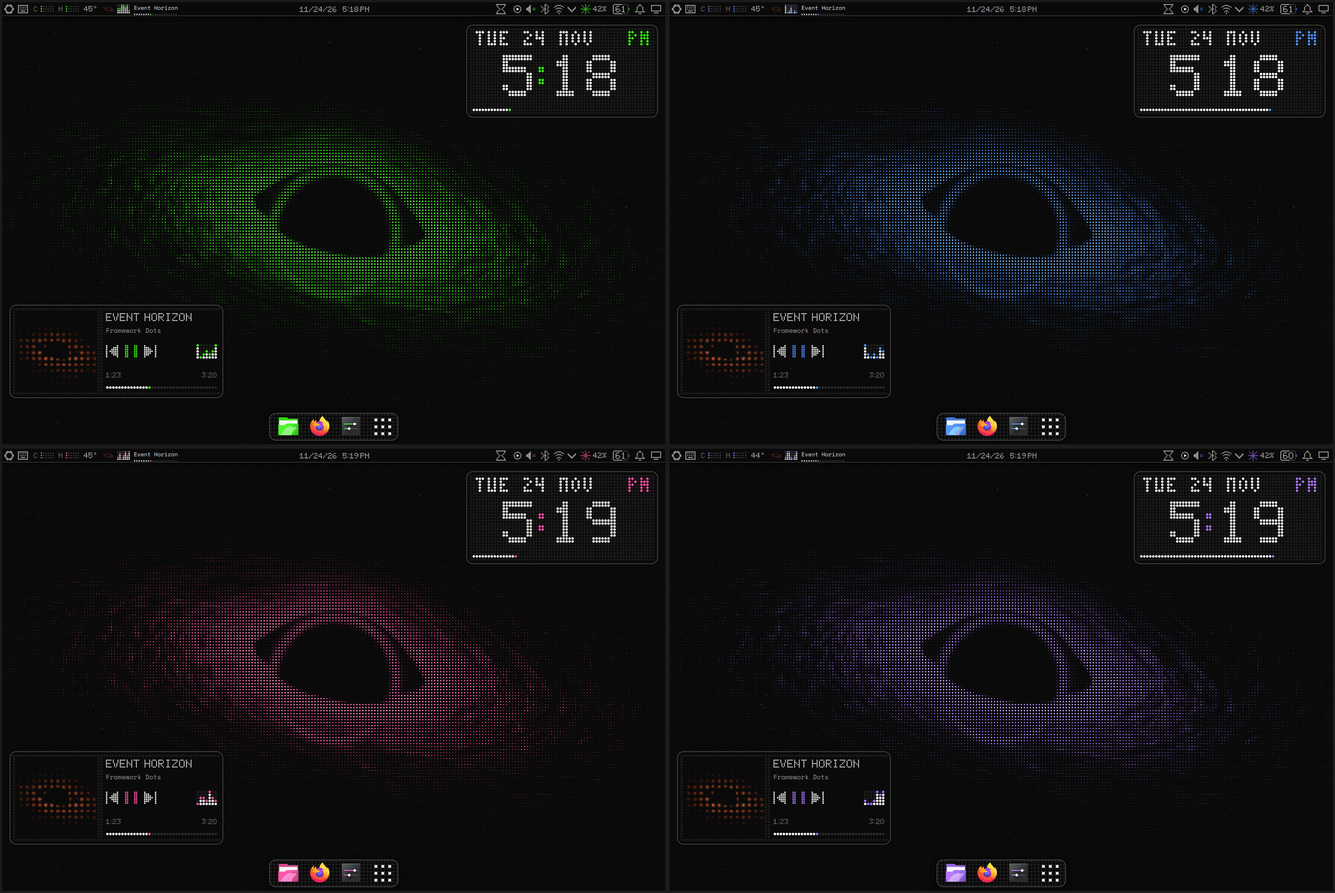
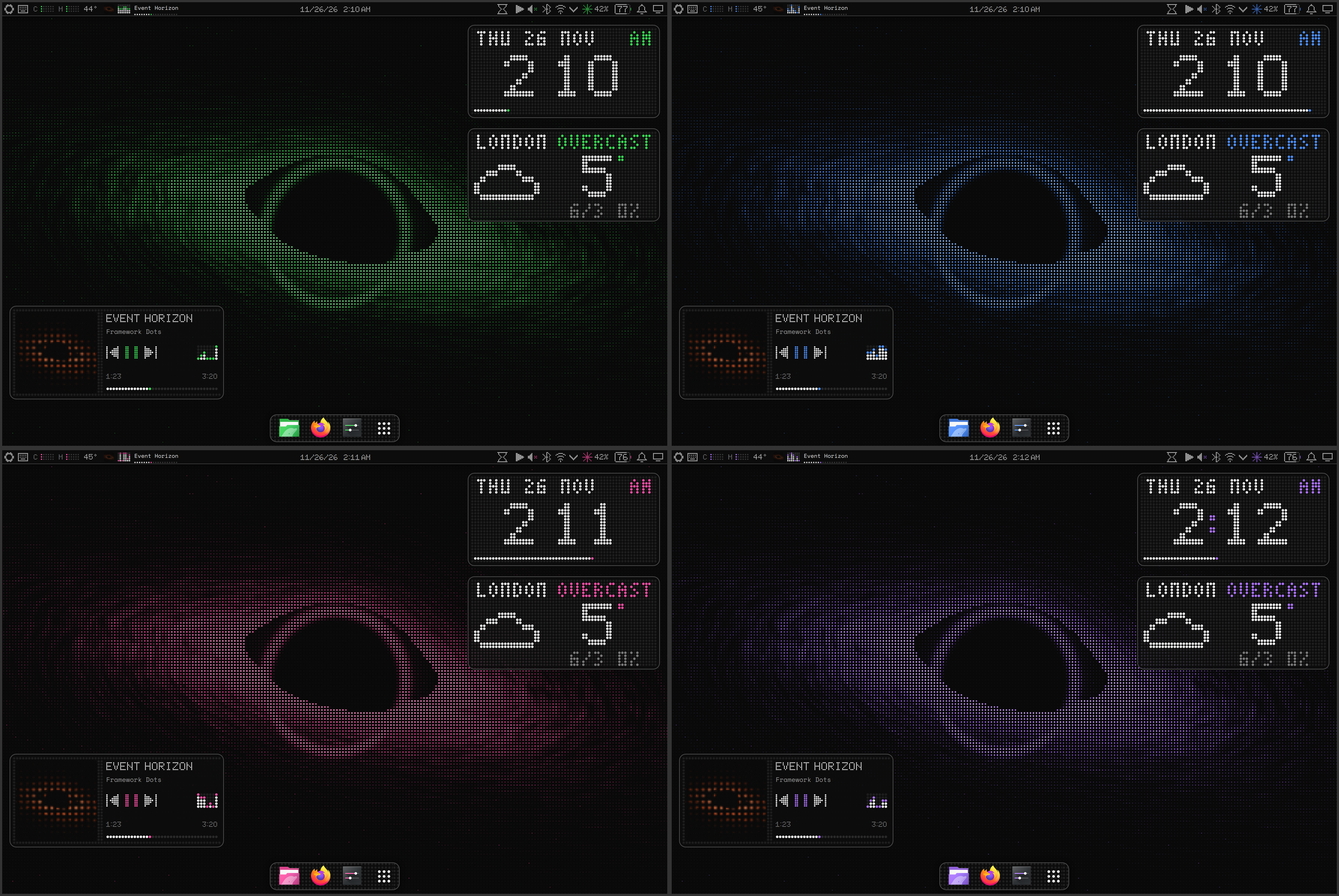
Accent changes without restarting the taskbar, new README pictures

diff --git a/plasmoids/local.dotlauncher/contents/ui/Dash.qml b/plasmoids/local.dotlauncher/contents/ui/Dash.qml
@@ -83,12 +83,12 @@ Kicker.DashboardWindow {
                     anchors.fill: parent
                     horizontalAlignment: TextInput.AlignHCenter; verticalAlignment: TextInput.AlignVCenter
                     font.family: "FD Dots"; font.capitalization: Font.AllUppercase; font.pointSize: 30
-                    color: page.ink; selectionColor: "#f3531a"; selectedTextColor: "#141414"
+                    color: page.ink; selectionColor: Kirigami.Theme.highlightColor; selectedTextColor: "#141414"
                     clip: true; maximumLength: 80
                     Accessible.role: Accessible.EditableText; Accessible.name: "Search apps"
                     cursorDelegate: Item {
                         Column { anchors.verticalCenter: parent.verticalCenter; x: 2; spacing: 2; visible: dash.searching
-                            Repeater { model: 5; Rectangle { width: 5; height: 5; radius: 2.5; color: "#f3531a" } }
+                            Repeater { model: 5; Rectangle { width: 5; height: 5; radius: 2.5; color: Kirigami.Theme.highlightColor } }
                             SequentialAnimation on opacity { loops: Animation.Infinite; running: dash.visible && dash.searching; PauseAnimation { duration: 500 } NumberAnimation { to: 0; duration: 60 } PauseAnimation { duration: 400 } NumberAnimation { to: 1; duration: 60 } } }
                     }
                     onTextChanged: dash.runnerModel.query = text
@@ -109,7 +109,7 @@ Kicker.DashboardWindow {
                     }
                 }
                 Row { anchors { bottom: parent.bottom; horizontalCenter: parent.horizontalCenter } spacing: 6
-                    Repeater { model: Math.floor(search.width / 10); Rectangle { required property int index; width: 4; height: 4; radius: 2; color: dash.searching ? "#f3531a" : page.ink; opacity: dash.searching ? 1 : 0.22 } } }
+                    Repeater { model: Math.floor(search.width / 10); Rectangle { required property int index; width: 4; height: 4; radius: 2; color: dash.searching ? Kirigami.Theme.highlightColor : page.ink; opacity: dash.searching ? 1 : 0.22 } } }
             }
 
             // Categories
@@ -127,7 +127,7 @@ Kicker.DashboardWindow {
                     required property int index
                     readonly property bool on: index === dash.group && !dash.searching
                     width: name.implicitWidth + 26; height: 34; radius: 17
-                    color: on ? "#f3531a" : Qt.rgba(page.ink.r, page.ink.g, page.ink.b, over.containsMouse ? 0.14 : 0.06)
+                    color: on ? Kirigami.Theme.highlightColor : Qt.rgba(page.ink.r, page.ink.g, page.ink.b, over.containsMouse ? 0.14 : 0.06)
                     border.width: 1; border.color: Qt.rgba(page.ink.r, page.ink.g, page.ink.b, on ? 0 : 0.18)
                     Accessible.role: Accessible.PageTab; Accessible.name: modelData.name; Accessible.onPressAction: dash.pick(index)
                     PC.Label { id: name; anchors.centerIn: parent; text: pill.modelData.name; textFormat: Text.PlainText; color: pill.on ? "#141414" : page.ink }
@@ -166,7 +166,7 @@ Kicker.DashboardWindow {
                     }
                     Kirigami.Icon { id: ic; anchors { top: parent.top; topMargin: 18; horizontalCenter: parent.horizontalCenter } width: 56; height: 56; source: app.model.decoration; animated: false; scale: hover.pressed ? 0.92 : 1 }
                     PC.Label { anchors { top: ic.bottom; topMargin: 8; left: parent.left; right: parent.right; margins: 12 } text: app.model.display || ""; textFormat: Text.PlainText; horizontalAlignment: Text.AlignHCenter; wrapMode: Text.Wrap; maximumLineCount: 2; elide: Text.ElideRight; font: Kirigami.Theme.smallFont; color: page.ink }
-                    Rectangle { anchors { bottom: parent.bottom; bottomMargin: 9; horizontalCenter: parent.horizontalCenter } width: 6; height: 6; radius: 3; color: "#f3531a"; visible: app.on }
+                    Rectangle { anchors { bottom: parent.bottom; bottomMargin: 9; horizontalCenter: parent.horizontalCenter } width: 6; height: 6; radius: 3; color: Kirigami.Theme.highlightColor; visible: app.on }
                     MouseArea {
                         id: hover
                         anchors.fill: parent
@@ -183,7 +183,7 @@ Kicker.DashboardWindow {
                 readonly property int at: grid.atYEnd ? pages - 1 : Math.min(pages - 1, Math.floor((grid.contentY - grid.originY) / Math.max(1, grid.height) + 0.25))
                 id: where
                 visible: pages > 1; spacing: 9
-                Repeater { model: where.pages; Rectangle { required property int index; width: 8; height: 8; radius: 4; color: index === where.at ? "#f3531a" : page.ink; opacity: index === where.at ? 1 : 0.25
+                Repeater { model: where.pages; Rectangle { required property int index; width: 8; height: 8; radius: 4; color: index === where.at ? Kirigami.Theme.highlightColor : page.ink; opacity: index === where.at ? 1 : 0.25
                     MouseArea { anchors.fill: parent; anchors.margins: -4; cursorShape: Qt.PointingHandCursor; onClicked: grid.contentY = grid.originY + Math.min(index * grid.height, Math.max(0, grid.contentHeight - grid.height)) } } }
             }
             Column {
@@ -208,9 +208,9 @@ Kicker.DashboardWindow {
                         required property int index
                         width: 46; height: 46; radius: 23
                         color: Qt.rgba(page.ink.r, page.ink.g, page.ink.b, am.containsMouse ? 0.14 : 0.06)
-                        border.width: 1; border.color: am.containsMouse ? "#f3531a" : Qt.rgba(page.ink.r, page.ink.g, page.ink.b, 0.18)
+                        border.width: 1; border.color: am.containsMouse ? Kirigami.Theme.highlightColor : Qt.rgba(page.ink.r, page.ink.g, page.ink.b, 0.18)
                         Accessible.role: Accessible.Button; Accessible.name: model.display || ""; Accessible.onPressAction: { dash.systemModel.trigger(index, "", null); dash.done() }
-                        Kirigami.Icon { anchors.centerIn: parent; width: 22; height: 22; source: act.model.decoration; isMask: true; color: am.containsMouse ? "#f3531a" : page.ink }
+                        Kirigami.Icon { anchors.centerIn: parent; width: 22; height: 22; source: act.model.decoration; isMask: true; color: am.containsMouse ? Kirigami.Theme.highlightColor : page.ink }
                         PC.Label { anchors { bottom: parent.top; bottomMargin: 5; horizontalCenter: parent.horizontalCenter } visible: am.containsMouse; text: act.model.display || ""; textFormat: Text.PlainText; font: Kirigami.Theme.smallFont; color: page.ink }
                         MouseArea { id: am; anchors.fill: parent; hoverEnabled: true; cursorShape: Qt.PointingHandCursor; onClicked: { dash.systemModel.trigger(act.index, "", null); dash.done() } }
                     }

diff --git a/plasmoids/local.dotplaying/contents/ui/main.qml b/plasmoids/local.dotplaying/contents/ui/main.qml
@@ -95,7 +95,7 @@ PlasmoidItem {
                         required property int index
                         readonly property bool on: index >= 5 - (root.playing ? root.levels[c.index] : 1)
                         y: index * pitch; width: pitch * 0.8; height: width; radius: width / 2
-                        color: on && root.playing && index === 5 - root.levels[c.index] ? "#f3531a" : Kirigami.Theme.textColor
+                        color: on && root.playing && index === 5 - root.levels[c.index] ? Kirigami.Theme.highlightColor : Kirigami.Theme.textColor
                         opacity: on ? 1 : 0.18
                     }
                 }
@@ -162,7 +162,7 @@ PlasmoidItem {
                         Item {
                             required property int index
                             width: 5; height: 3
-                            Rectangle { width: 3; height: 3; radius: 1.5; color: index === line.lit - 1 ? "#f3531a" : Kirigami.Theme.textColor; opacity: index < line.lit ? 0.9 : 0.18 }
+                            Rectangle { width: 3; height: 3; radius: 1.5; color: index === line.lit - 1 ? Kirigami.Theme.highlightColor : Kirigami.Theme.textColor; opacity: index < line.lit ? 0.9 : 0.18 }
                         }
                     }
                 }
@@ -188,7 +188,7 @@ PlasmoidItem {
                 visible: gl.n > 0 && gl.rows9[Math.floor(index / gl.n)][index % gl.n] === "#"
                 x: 7 + (index % gl.n) * gl.pitch; y: 7 + Math.floor(index / gl.n) * gl.pitch
                 width: gl.pitch * 0.84; height: width; radius: width / 2
-                color: gl.containsMouse ? "#f3531a" : gl.tint
+                color: gl.containsMouse ? Kirigami.Theme.highlightColor : gl.tint
             }
         }
     }
@@ -205,7 +205,7 @@ PlasmoidItem {
             Rectangle {
                 required property int index
                 x: index * 8 + 1; y: 4; width: 6; height: 6; radius: 3
-                color: index === dts.lit - 1 ? "#f3531a" : Kirigami.Theme.textColor
+                color: index === dts.lit - 1 ? Kirigami.Theme.highlightColor : Kirigami.Theme.textColor
                 opacity: index < dts.lit ? 1 : 0.18
             }
         }
@@ -314,15 +314,15 @@ PlasmoidItem {
             Row {
                 Layout.alignment: Qt.AlignHCenter
                 spacing: 2
-                Glyph { anchors.verticalCenter: parent.verticalCenter; visible: root.shuffle !== 0; pitch: 2; tint: root.shuffle === 2 ? "#f3531a" : Kirigami.Theme.textColor; onClicked: root.player.shuffle = root.shuffle === 2 ? 1 : 2
+                Glyph { anchors.verticalCenter: parent.verticalCenter; visible: root.shuffle !== 0; pitch: 2; tint: root.shuffle === 2 ? Kirigami.Theme.highlightColor : Kirigami.Theme.textColor; onClicked: root.player.shuffle = root.shuffle === 2 ? 1 : 2
                     rows9: [".......#.", "##....###", "..#..#.#.", "...##....", "...##....", "..#..#.#.", "##....###", ".......#.", "........."] }
                 Glyph { anchors.verticalCenter: parent.verticalCenter; enabled: root.player?.canGoPrevious ?? false; onClicked: root.player.Previous()
                     rows9: ["#.....#", "#...###", "#..####", "#.#####", "#..####", "#...###", "#.....#"] }
-                Glyph { anchors.verticalCenter: parent.verticalCenter; pitch: 4; tint: "#f3531a"; enabled: root.track !== ""; onClicked: root.player.PlayPause()
+                Glyph { anchors.verticalCenter: parent.verticalCenter; pitch: 4; tint: Kirigami.Theme.highlightColor; enabled: root.track !== ""; onClicked: root.player.PlayPause()
                     rows9: root.playing ? ["##...##", "##...##", "##...##", "##...##", "##...##", "##...##", "##...##"] : ["##.....", "####...", "######.", "#######", "######.", "####...", "##....."] }
                 Glyph { anchors.verticalCenter: parent.verticalCenter; enabled: root.player?.canGoNext ?? false; onClicked: root.player.Next()
                     rows9: ["#.....#", "###...#", "####..#", "#####.#", "####..#", "###...#", "#.....#"] }
-                Glyph { anchors.verticalCenter: parent.verticalCenter; visible: root.loop !== 0; pitch: 2; tint: root.loop > 1 ? "#f3531a" : Kirigami.Theme.textColor; onClicked: root.player.loopStatus = root.loop === 1 ? 2 : root.loop === 2 ? 3 : 1
+                Glyph { anchors.verticalCenter: parent.verticalCenter; visible: root.loop !== 0; pitch: 2; tint: root.loop > 1 ? Kirigami.Theme.highlightColor : Kirigami.Theme.textColor; onClicked: root.player.loopStatus = root.loop === 1 ? 2 : root.loop === 2 ? 3 : 1
                     rows9: root.loop === 3 ? ["......#..", "########.", "#.....#..", "#...#....", "...##...#", "....#...#", "..#.....#", ".########", "..#......"] : ["......#..", "########.", "#.....#..", "#........", "........#", "........#", "..#.....#", ".########", "..#......"] }
             }
             RowLayout {

diff --git a/plasmoids/local.dotmedia/contents/ui/main.qml b/plasmoids/local.dotmedia/contents/ui/main.qml
@@ -6,6 +6,7 @@ import org.kde.plasma.core as PlasmaCore
 import org.kde.plasma.private.mpris as Mpris
 
 PlasmoidItem {
+    readonly property color accent: Kirigami.Theme.highlightColor     // follows the colour scheme, no restart needed
     id: root
 
     // Boards follow the colour scheme: light text on dark, dark on light
@@ -63,7 +64,7 @@ PlasmoidItem {
                 visible: gl.rows7.length === 7 && gl.rows7[Math.floor(index / 7)][index % 7] === "#"
                 x: 6 + (index % 7) * gl.pitch; y: 6 + Math.floor(index / 7) * gl.pitch
                 width: gl.pitch * 0.84; height: width; radius: width / 2
-                color: gl.containsMouse ? "#f3531a" : gl.tint
+                color: gl.containsMouse ? Kirigami.Theme.highlightColor : gl.tint
             }
         }
     }
@@ -178,7 +179,7 @@ PlasmoidItem {
                 x: view.p * root.art0; y: view.p * root.art0; width: view.p * root.artN; height: width
                 onWidthChanged: requestPaint()
                 NumberAnimation { id: appear; target: cover; property: "opacity"; to: 1; duration: 350 }
-                Connections { target: root; function onColourChanged() { cover.requestPaint() } function onDarkChanged() { cover.requestPaint() } }
+                Connections { target: root; function onColourChanged() { cover.requestPaint() } function onDarkChanged() { cover.requestPaint() } function onAccentChanged() { cover.requestPaint() } }
                 onPaint: {
                     var c = getContext("2d"), n = root.dense, q = width / n, a = probe.px, cr = n * 0.07; c.reset()
                     if (a.length === n * n) {
@@ -195,7 +196,7 @@ PlasmoidItem {
                         var p = view.p, note = ["....#######", "....#######", "....#.....#", "....#.....#", "....#.....#", "....#.....#", ".####..####", "#####.#####", "#####.#####", ".###...###."]
                         for (var gy = 0; gy < root.artN; gy++) for (var gx = 0; gx < root.artN; gx++) {
                             var on = gy >= 8 && gy < 18 && gx >= 8 && gx < 19 && note[gy - 8][gx - 8] === "#"
-                            c.fillStyle = on ? "#f3531a" : root.gridInk; c.beginPath(); c.arc((gx + 0.5) * p, (gy + 0.5) * p, p * (on ? 0.42 : 0.38), 0, 6.2832); c.fill()
+                            c.fillStyle = on ? root.accent : root.gridInk; c.beginPath(); c.arc((gx + 0.5) * p, (gy + 0.5) * p, p * (on ? 0.42 : 0.38), 0, 6.2832); c.fill()
                         }
                     }
                 }
@@ -207,7 +208,7 @@ PlasmoidItem {
                 spacing: view.p * 0.3
                 Glyph { pitch: view.p * 0.6; enabled: root.player?.canGoPrevious ?? false; onClicked: root.player.Previous()
                     rows7: ["#.....#", "#...###", "#..####", "#.#####", "#..####", "#...###", "#.....#"] }
-                Glyph { pitch: view.p * 0.6; enabled: root.track !== ""; tint: "#f3531a"; onClicked: root.player.PlayPause()
+                Glyph { pitch: view.p * 0.6; enabled: root.track !== ""; tint: Kirigami.Theme.highlightColor; onClicked: root.player.PlayPause()
                     rows7: root.playing ? ["##...##", "##...##", "##...##", "##...##", "##...##", "##...##", "##...##"] : ["##.....", "####...", "######.", "#######", "######.", "####...", "##....."] }
                 Glyph { pitch: view.p * 0.6; enabled: root.player?.canGoNext ?? false; onClicked: root.player.Next()
                     rows7: ["#.....#", "###...#", "####..#", "#####.#", "####..#", "###...#", "#.....#"] }
@@ -227,7 +228,7 @@ PlasmoidItem {
                                 readonly property int lv: root.playing ? root.levels[bar.index] : 1
                                 x: view.p * 0.08; y: index * view.p + view.p * 0.08
                                 width: view.p * 0.84; height: width; radius: width / 2
-                                color: index === 5 - lv && root.playing ? "#f3531a" : root.ink
+                                color: index === 5 - lv && root.playing ? Kirigami.Theme.highlightColor : root.ink
                                 opacity: index >= 5 - lv ? (root.playing ? 1 : 0.4) : 0.07
                             }
                         }
@@ -246,7 +247,7 @@ PlasmoidItem {
                         required property int index
                         x: index * view.p + view.p * 0.08; y: view.p * 0.08
                         width: view.p * 0.84; height: width; radius: width / 2
-                        color: index === prog.lit - 1 ? "#f3531a" : root.ink
+                        color: index === prog.lit - 1 ? Kirigami.Theme.highlightColor : root.ink
                         opacity: index < prog.lit ? 1 : 0.12
                     }
                 }

diff --git a/plasmoids/local.dotclock/contents/ui/main.qml b/plasmoids/local.dotclock/contents/ui/main.qml
@@ -99,7 +99,7 @@ PlasmoidItem {
                     visible: root.cur !== null
                     Layout.alignment: Qt.AlignHCenter
                     spacing: 18
-                    DotIcon { pitch: 6; color: "#f3531a"; rows: root.icons[root.cur ? root.kind(root.cur.weather_code, root.cur.is_day) : "cloud"] }
+                    DotIcon { pitch: 6; color: Kirigami.Theme.highlightColor; rows: root.icons[root.cur ? root.kind(root.cur.weather_code, root.cur.is_day) : "cloud"] }
                     ColumnLayout {
                         spacing: 2
                         Text { text: root.cur ? Math.round(root.cur.temperature_2m) + "°" : ""; font.family: "FD Dots"; font.capitalization: Font.AllUppercase; font.pointSize: 42; color: Kirigami.Theme.textColor }
@@ -143,7 +143,7 @@ PlasmoidItem {
                             PC.Label { text: root.hourOf(modelData.t); opacity: 0.6; font: Kirigami.Theme.smallFont; Layout.alignment: Qt.AlignHCenter }
                             DotIcon { rows: root.icons[root.kind(modelData.c, modelData.d)]; Layout.alignment: Qt.AlignHCenter }
                             PC.Label { text: Math.round(modelData.v) + "°"; Layout.alignment: Qt.AlignHCenter }
-                            PC.Label { text: (modelData.p ?? 0) + "%"; color: (modelData.p ?? 0) >= 50 ? "#f3531a" : Kirigami.Theme.textColor; opacity: (modelData.p ?? 0) >= 50 ? 1 : 0.5; font: Kirigami.Theme.smallFont; Layout.alignment: Qt.AlignHCenter }
+                            PC.Label { text: (modelData.p ?? 0) + "%"; color: (modelData.p ?? 0) >= 50 ? Kirigami.Theme.highlightColor : Kirigami.Theme.textColor; opacity: (modelData.p ?? 0) >= 50 ? 1 : 0.5; font: Kirigami.Theme.smallFont; Layout.alignment: Qt.AlignHCenter }
                         }
                     }
                 }
@@ -160,7 +160,7 @@ PlasmoidItem {
                             DotIcon { rows: root.icons[root.kind(modelData.c, 1)]; Layout.alignment: Qt.AlignHCenter }
                             PC.Label { text: Math.round(modelData.hi) + "°"; Layout.alignment: Qt.AlignHCenter }
                             PC.Label { text: Math.round(modelData.lo) + "°"; opacity: 0.6; Layout.alignment: Qt.AlignHCenter }
-                            PC.Label { text: (modelData.p ?? 0) + "%"; color: (modelData.p ?? 0) >= 50 ? "#f3531a" : Kirigami.Theme.textColor; opacity: (modelData.p ?? 0) >= 50 ? 1 : 0.5; font: Kirigami.Theme.smallFont; Layout.alignment: Qt.AlignHCenter }
+                            PC.Label { text: (modelData.p ?? 0) + "%"; color: (modelData.p ?? 0) >= 50 ? Kirigami.Theme.highlightColor : Kirigami.Theme.textColor; opacity: (modelData.p ?? 0) >= 50 ? 1 : 0.5; font: Kirigami.Theme.smallFont; Layout.alignment: Qt.AlignHCenter }
                         }
                     }
                 }

diff --git a/tabbox/framework_dots/contents/ui/main.qml b/tabbox/framework_dots/contents/ui/main.qml
@@ -54,7 +54,7 @@ KWin.TabBoxSwitcher {
                         radius: 14
                         color: Qt.rgba(box.ink.r, box.ink.g, box.ink.b, card.on ? 0.1 : 0.035)
                         border.width: card.on ? 2 : 1
-                        border.color: card.on ? "#f3531a" : Qt.rgba(box.ink.r, box.ink.g, box.ink.b, 0.16)
+                        border.color: card.on ? Kirigami.Theme.highlightColor : Qt.rgba(box.ink.r, box.ink.g, box.ink.b, 0.16)
                     }
                     Item {
                         id: shot
@@ -68,7 +68,7 @@ KWin.TabBoxSwitcher {
                         spacing: 7
                         Kirigami.Icon { source: card.model.icon; Layout.preferredWidth: 20; Layout.preferredHeight: 20 }
                         Text { text: card.caption; textFormat: Text.PlainText; elide: Text.ElideRight; Layout.fillWidth: true; font: Kirigami.Theme.smallFont; color: box.ink; opacity: card.on ? 1 : 0.65 }
-                        Rectangle { visible: card.on; width: 7; height: 7; radius: 3.5; color: "#f3531a" }
+                        Rectangle { visible: card.on; width: 7; height: 7; radius: 3.5; color: Kirigami.Theme.highlightColor }
                     }
                     TapHandler { onSingleTapped: { if (card.index === grid.currentIndex) grid.model.activate(card.index); else grid.currentIndex = card.index } onDoubleTapped: grid.model.activate(card.index) }
                 }
@@ -82,7 +82,7 @@ KWin.TabBoxSwitcher {
                 Row {
                     anchors.horizontalCenter: parent.horizontalCenter
                     spacing: 7
-                    Repeater { model: Math.min(40, grid.count); Rectangle { required property int index; width: 7; height: 7; radius: 3.5; color: index === grid.currentIndex ? "#f3531a" : box.ink; opacity: index === grid.currentIndex ? 1 : 0.22 } }
+                    Repeater { model: Math.min(40, grid.count); Rectangle { required property int index; width: 7; height: 7; radius: 3.5; color: index === grid.currentIndex ? Kirigami.Theme.highlightColor : box.ink; opacity: index === grid.currentIndex ? 1 : 0.22 } }
                 }
             }
             Connections { target: tabBox; function onCurrentIndexChanged() { grid.currentIndex = tabBox.currentIndex } }

diff --git a/plasmoids/local.dotboard/contents/ui/main.qml b/plasmoids/local.dotboard/contents/ui/main.qml
@@ -33,6 +33,9 @@ PlasmoidItem {
     property var tint: []       // last lit state, so fading dots keep their colour
     property var changed: []    // indexes to redraw; empty = everything
     signal repaint()
+    // The accent comes from the colour scheme, so a new accent shows without restarting the taskbar
+    readonly property color accent: Kirigami.Theme.highlightColor
+    onAccentChanged: { changed = []; repaint() }
     // The colon and the seconds track change every second, so they are separate dots: the canvas is only redrawn once a minute
     property int second: 0
     property int colonX: 0
@@ -123,7 +126,7 @@ PlasmoidItem {
                 property bool needAll: true
                 function dot(c, i, p) {
                     var v = root.shown[i]; if (v <= 0) return
-                    c.globalAlpha = v; c.fillStyle = root.tint[i] === 2 ? "#f3531a" : root.ink
+                    c.globalAlpha = v; c.fillStyle = root.tint[i] === 2 ? root.accent : root.ink
                     c.beginPath(); c.arc((i % root.cols + 0.5) * p, (Math.floor(i / root.cols) + 0.5) * p, p * 0.42, 0, 6.2832); c.fill()
                 }
                 onPaint: {
@@ -151,11 +154,11 @@ PlasmoidItem {
             Item {
                 anchors.fill: parent
                 visible: !root.secs || root.second % 2 === 0
-                Repeater { model: 8; Dot { required property int index; col: root.colonX + index % 2; row: (index < 4 ? 14 : 18) + (index % 4 >> 1); color: "#f3531a" } }
+                Repeater { model: 8; Dot { required property int index; col: root.colonX + index % 2; row: (index < 4 ? 14 : 18) + (index % 4 >> 1); color: Kirigami.Theme.highlightColor } }
             }
             Repeater {
                 model: root.secs ? 60 : 0
-                Dot { required property int index; col: 2 + index; row: 28; visible: index <= root.second; color: index === root.second ? "#f3531a" : root.ink }
+                Dot { required property int index; col: 2 + index; row: 28; visible: index <= root.second; color: index === root.second ? Kirigami.Theme.highlightColor : root.ink }
             }
         }
     }

diff --git a/plasmoids/local.dotcenter/contents/ui/NotifItem.qml b/plasmoids/local.dotcenter/contents/ui/NotifItem.qml
@@ -26,7 +26,7 @@ Rectangle {
     implicitHeight: col.implicitHeight + 20
     radius: 12
     color: Qt.rgba(ink.r, ink.g, ink.b, area.containsMouse ? 0.1 : 0.05)
-    border.width: 1; border.color: critical ? "#f3531a" : Qt.rgba(ink.r, ink.g, ink.b, 0.16)
+    border.width: 1; border.color: critical ? Kirigami.Theme.highlightColor : Qt.rgba(ink.r, ink.g, ink.b, 0.16)
     MouseArea { id: area; anchors.fill: parent; hoverEnabled: true; cursorShape: it.model.hasDefaultAction ? Qt.PointingHandCursor : Qt.ArrowCursor; acceptedButtons: Qt.LeftButton | Qt.MiddleButton
         onClicked: m => { if (m.button === Qt.MiddleButton) it.closed(); else if (it.model.hasDefaultAction) it.opened() } }
     ColumnLayout {
@@ -41,7 +41,7 @@ Rectangle {
             Item {
                 Layout.preferredWidth: 16; Layout.preferredHeight: 16
                 Accessible.role: Accessible.Button; Accessible.name: "Dismiss"; Accessible.onPressAction: it.closed()
-                DotIcon { anchors.centerIn: parent; pitch: 1.2; color: x.containsMouse ? "#f3531a" : it.ink; opacity: x.containsMouse ? 1 : 0.5
+                DotIcon { anchors.centerIn: parent; pitch: 1.2; color: x.containsMouse ? Kirigami.Theme.highlightColor : it.ink; opacity: x.containsMouse ? 1 : 0.5
                     rows: ["#.........#", ".#.......#.", "..#.....#..", "...#...#...", "....#.#....", ".....#.....", "....#.#....", "...#...#...", "..#.....#..", ".#.......#.", "#.........#"] }
                 MouseArea { id: x; anchors.fill: parent; anchors.margins: -4; hoverEnabled: true; cursorShape: Qt.PointingHandCursor; onClicked: it.closed() }
             }

diff --git a/plasmoids/local.claudeusage/contents/ui/main.qml b/plasmoids/local.claudeusage/contents/ui/main.qml
@@ -55,7 +55,7 @@ PlasmoidItem {
                         visible: root.spark[Math.floor(index / 11)][index % 11] === "#"
                         x: (index % 11) * 2 + 0.15; y: Math.floor(index / 11) * 2 + 0.15
                         width: 1.7; height: 1.7; radius: 0.85
-                        color: "#f3531a"
+                        color: Kirigami.Theme.highlightColor
                     }
                 }
             }
@@ -63,7 +63,7 @@ PlasmoidItem {
                 anchors.verticalCenter: parent.verticalCenter
                 text: root.shortText
                 font.family: "FD Dots"; font.capitalization: Font.AllUppercase; font.pointSize: 13
-                color: root.pct("five_hour") >= 80 ? "#f3531a" : Kirigami.Theme.textColor
+                color: root.pct("five_hour") >= 80 ? Kirigami.Theme.highlightColor : Kirigami.Theme.textColor
             }
         }
     }
@@ -87,7 +87,7 @@ PlasmoidItem {
                     readonly property int col: Math.floor(index / 3)
                     readonly property int lit: value <= 0 ? 0 : Math.max(1, Math.round(Math.min(100, value) / 100 * 30))
                     x: col * 9 + 1; y: (index % 3) * 9 + 1; width: 7; height: 7; radius: 3.5
-                    color: col < lit && (col === lit - 1 || value >= 80) ? "#f3531a" : Kirigami.Theme.textColor
+                    color: col < lit && (col === lit - 1 || value >= 80) ? Kirigami.Theme.highlightColor : Kirigami.Theme.textColor
                     opacity: col < lit ? 1 : 0.18
                 }
             }

diff --git a/plasmoids/local.dotsysmon/contents/ui/main.qml b/plasmoids/local.dotsysmon/contents/ui/main.qml
@@ -35,7 +35,7 @@ PlasmoidItem {
                     DotBar { cols: 6; rows: 3; pitch: 5; value: modelData.v / 100; hot: modelData.v >= 85; anchors.verticalCenter: parent.verticalCenter }
                 }
             }
-            Text { text: Math.round(root.n(temp)) + "°"; font.family: "FD Dots"; font.capitalization: Font.AllUppercase; font.pointSize: 13; color: root.n(temp) >= 85 ? "#f3531a" : Kirigami.Theme.textColor; anchors.verticalCenter: parent.verticalCenter }
+            Text { text: Math.round(root.n(temp)) + "°"; font.family: "FD Dots"; font.capitalization: Font.AllUppercase; font.pointSize: 13; color: root.n(temp) >= 85 ? Kirigami.Theme.highlightColor : Kirigami.Theme.textColor; anchors.verticalCenter: parent.verticalCenter }
         }
     }
     fullRepresentation: Item {
@@ -121,7 +121,7 @@ PlasmoidItem {
                                 required property int index
                                 anchors.horizontalCenter: parent.horizontalCenter
                                 y: index * 6; width: 5; height: 5; radius: 2.5
-                                color: index === 5 - cr.lit || cr.u >= 85 ? "#f3531a" : Kirigami.Theme.textColor
+                                color: index === 5 - cr.lit || cr.u >= 85 ? Kirigami.Theme.highlightColor : Kirigami.Theme.textColor
                                 opacity: index >= 5 - cr.lit ? 1 : 0.15
                             }
                         }

diff --git a/plasmoids/local.dotcenter/contents/ui/main.qml b/plasmoids/local.dotcenter/contents/ui/main.qml
@@ -37,7 +37,7 @@ PlasmoidItem {
         acceptedButtons: Qt.LeftButton | Qt.MiddleButton
         onClicked: m => { if (m.button === Qt.MiddleButton && root.notifs) root.notifs.setDnd(!root.dnd); else root.expanded = !root.expanded }
         DotIcon { id: icon; anchors.centerIn: parent; rows: root.dnd ? root.bellOff : root.bell; color: root.ink; opacity: root.dnd ? 0.6 : 1 }
-        Rectangle { visible: root.fresh > 0 && !root.dnd; width: 7; height: 7; radius: 3.5; color: "#f3531a"; anchors { right: icon.right; top: icon.top; rightMargin: -1; topMargin: -1 } }
+        Rectangle { visible: root.fresh > 0 && !root.dnd; width: 7; height: 7; radius: 3.5; color: Kirigami.Theme.highlightColor; anchors { right: icon.right; top: icon.top; rightMargin: -1; topMargin: -1 } }
     }
 
     fullRepresentation: Item {
@@ -70,7 +70,7 @@ PlasmoidItem {
             }
             Accent {
                 Layout.fillWidth: true; ink: root.ink
-                // Started outside the taskbar, which restarts while the colour changes
+                // Started outside the taskbar, so closing it never stops the change halfway
                 onChosen: c => { root.expanded = false; sh.run("systemd-run --user --collect --quiet \"$HOME/.local/bin/framework-dots-accent\" " + c) }
             }
             Rectangle { Layout.fillWidth: true; implicitHeight: 1; color: root.ink; opacity: 0.14 }

diff --git a/plasmoids/local.dotweather/contents/ui/main.qml b/plasmoids/local.dotweather/contents/ui/main.qml
@@ -5,6 +5,7 @@ import org.kde.plasma.plasmoid
 import org.kde.plasma.core as PlasmaCore
 
 PlasmoidItem {
+    readonly property color accent: Kirigami.Theme.highlightColor     // follows the colour scheme, no restart needed
     id: root
 
     // Boards follow the colour scheme: light text on dark, dark on light
@@ -189,9 +190,10 @@ PlasmoidItem {
                 id: lit
                 anchors.fill: parent
                 property bool needAll: true
+                Connections { target: root; function onAccentChanged() { lit.needAll = true; lit.requestPaint() } }
                 function dot(c, i, p) {
                     var s = root.target[i]; if (!s) return
-                    c.globalAlpha = s === 3 ? 0.42 : 1; c.fillStyle = s === 2 ? "#f3531a" : root.ink
+                    c.globalAlpha = s === 3 ? 0.42 : 1; c.fillStyle = s === 2 ? root.accent : root.ink
                     c.beginPath(); c.arc((i % root.cols + 0.5) * p, (Math.floor(i / root.cols) + 0.5) * p, p * 0.42, 0, 6.2832); c.fill()
                 }
                 onPaint: {

diff --git a/plasmoids/local.dotcenter/contents/ui/Tile.qml b/plasmoids/local.dotcenter/contents/ui/Tile.qml
@@ -19,9 +19,9 @@ Item {
     Rectangle {
         id: board
         width: parent.width; height: 52; radius: 12
-        color: tile.active ? "#f3531a" : Qt.rgba(tile.ink.r, tile.ink.g, tile.ink.b, area.containsMouse ? 0.14 : 0.07)
+        color: tile.active ? Kirigami.Theme.highlightColor : Qt.rgba(tile.ink.r, tile.ink.g, tile.ink.b, area.containsMouse ? 0.14 : 0.07)
         border.width: tile.activeFocus ? 2 : 1
-        border.color: tile.activeFocus ? "#f3531a" : Qt.rgba(tile.ink.r, tile.ink.g, tile.ink.b, tile.active ? 0 : 0.2)
+        border.color: tile.activeFocus ? Kirigami.Theme.highlightColor : Qt.rgba(tile.ink.r, tile.ink.g, tile.ink.b, tile.active ? 0 : 0.2)
         Behavior on color { ColorAnimation { duration: 120 } }
         DotIcon { anchors.centerIn: parent; rows: tile.glyph; color: tile.active ? "#141414" : tile.ink }
     }
